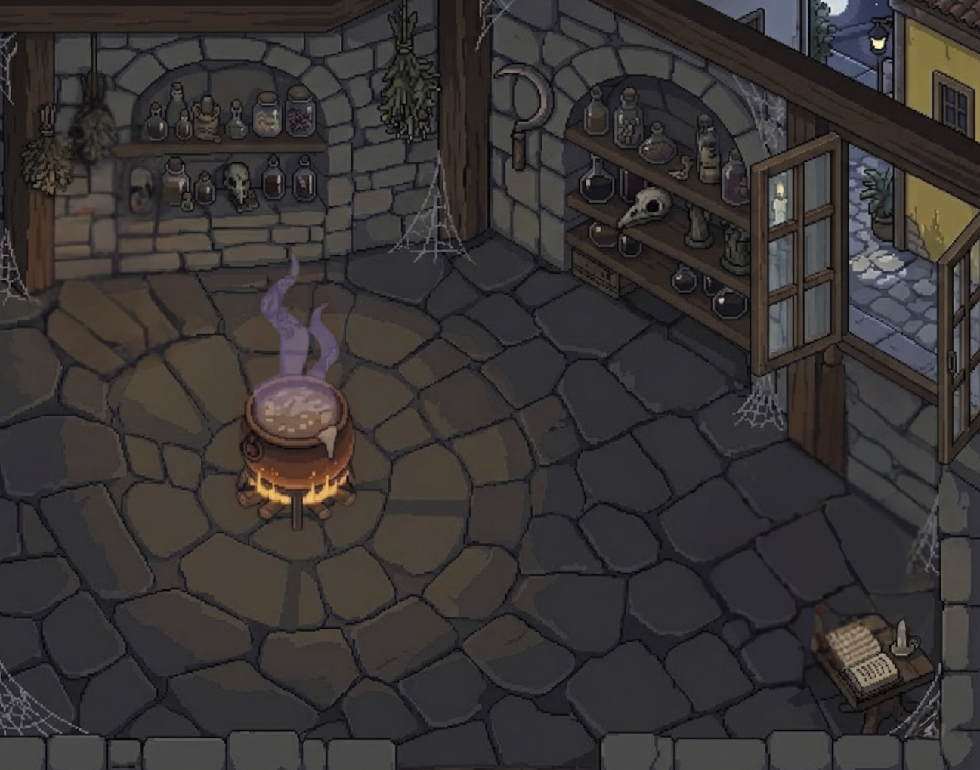
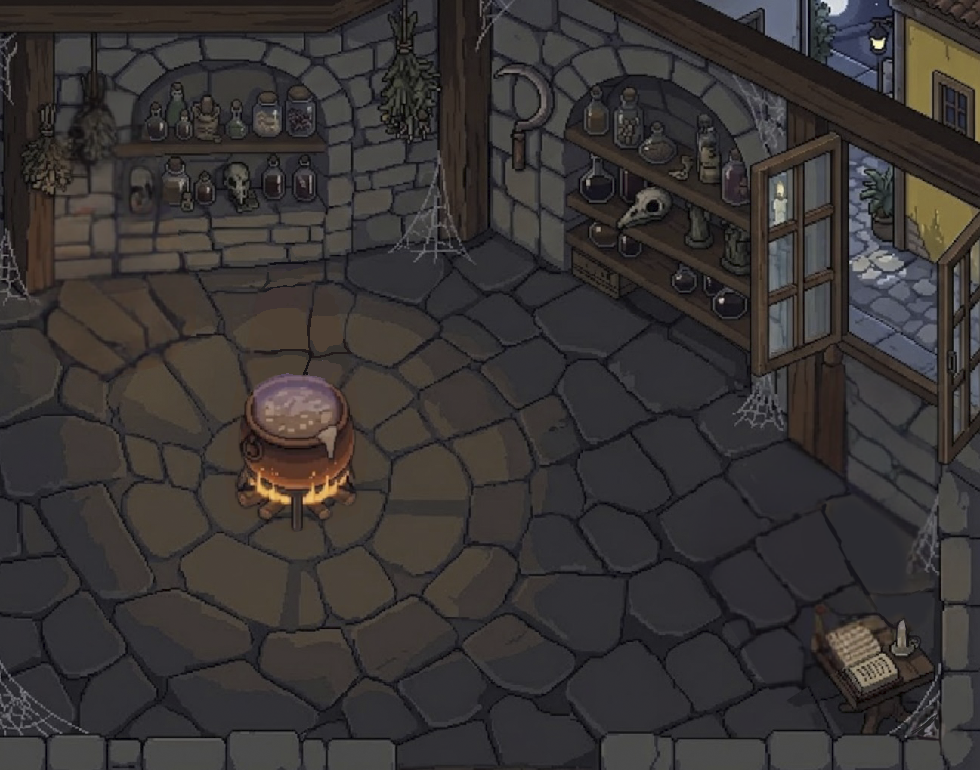
Adicionado colisões do cenário da fonte (2). Adicionado overlay do cenário da fonte e da bruxa. Adicionado sistema de itens (ainda não coletáveis, estou trabalhando nisso). Adicionado animação nos sprites dos itens (usando função seno). Adicionado todos sprites de direções do jogador.

Changed region(s): [[0.2449, 0.3429, 0.3673, 0.4987]]

diff --git a/classes/jogo.py b/classes/jogo.py
@@ -1,6 +1,8 @@
 import pygame as pg
 import sys
 
+from classes import items
+from classes.items import Item
 from classes.utils import SCREENRECT, load_image, carregar_sprite
 
 from classes.personagem import Player
@@ -21,8 +23,12 @@ class Jogo:
                                  2: load_image("cenarios/cenario2.png").convert()}
 
 
-        self.dicionario_mapas_overlays = {0: load_image("cenarios/overlays/cenario0_overlay.png").convert_alpha(), 1: pg.Surface((980, 770), pg.SRCALPHA).convert_alpha(),
-                                 2: pg.Surface((980, 770), pg.SRCALPHA).convert_alpha()}
+        self.dicionario_mapas_overlays = {0: load_image("cenarios/overlays/cenario0_overlay.png").convert_alpha(), 1: load_image("cenarios/overlays/cenario1_overlay.png").convert_alpha(),
+                                 2: load_image("cenarios/overlays/cenario2_overlay.png").convert_alpha()}
+
+
+        item_bola = Item(carregar_sprite("coletaveis/bola_item.png", 70, 70), carregar_sprite("coletaveis/bola.png", 30, 30), (6, 6), 1)
+        self.items = [item_bola]
 
         self.tela.blit(self.dicionario_mapas[0], (0, 0))
 
@@ -44,12 +50,38 @@ class Jogo:
         proximo_movimento = 0
         cooldown_movimentos = 70
         cooldown_movimentos_diagonal = cooldown_movimentos * (2 ** 0.5)
+        cooldown_animacao = {
+            0: 70, # baixo
+            1: 110, # direita
+            2: 110, # esquerda
+            3: 70 # cima
+        }
 
-        Player.images = [carregar_sprite("chaves/chaves_parado.png"),
+        Player.images[0] = [carregar_sprite("chaves/chaves_parado.png"),
                          carregar_sprite("chaves/chaves_baixo_1.png"),
                          carregar_sprite("chaves/chaves_baixo_2.png"),
                          carregar_sprite("chaves/chaves_baixo_3.png"),
-                         carregar_sprite("chaves/chaves_baixo_4.png")]
+                         carregar_sprite("chaves/chaves_baixo_4.png")] # sprites do chaves pra baixo
+
+        Player.images[1] = [carregar_sprite("chaves/chaves_direita_3.png"),
+                         carregar_sprite("chaves/chaves_direita_1.png"),
+                         carregar_sprite("chaves/chaves_direita_2.png"),
+                         carregar_sprite("chaves/chaves_direita_3.png"),
+                         carregar_sprite("chaves/chaves_direita_4.png")]
+
+        Player.images[2] = [carregar_sprite("chaves/chaves_direita_3.png", 70, 140, True),
+                         carregar_sprite("chaves/chaves_direita_1.png", 70, 140, True),
+                         carregar_sprite("chaves/chaves_direita_2.png", 70, 140, True),
+                         carregar_sprite("chaves/chaves_direita_3.png", 70, 140, True),
+                         carregar_sprite("chaves/chaves_direita_4.png", 70, 140, True)]
+
+
+        Player.images[3] = [carregar_sprite("chaves/chaves_cima_parado.png"),
+                         carregar_sprite("chaves/chaves_cima_1.png"),
+                         carregar_sprite("chaves/chaves_cima_2.png"),
+                         carregar_sprite("chaves/chaves_cima_3.png"),
+                         carregar_sprite("chaves/chaves_cima_4.png")]
+
 
         all = pg.sprite.RenderUpdates()
 
@@ -78,7 +110,7 @@ class Jogo:
 
             if player.andando:
                 if tempo_atual >= player.proximo_frame:
-                    player.proximo_frame = tempo_atual + cooldown_movimentos
+                    player.proximo_frame = tempo_atual + cooldown_animacao[player.facing]
                     if player.frame == 7:
                         player.frame = 1
                     else:
@@ -89,15 +121,32 @@ class Jogo:
                     else:
                         frame = player.frame
 
-                    player.image = player.images[frame]
+                    player.image = player.images[player.facing][frame]
 
                 player.atualizar_movimento(self.cenario_atual)
 
-            all.clear(self.tela, self.dicionario_mapas.get(self.cenario_atual))
+            self.tela.blit(self.dicionario_mapas[self.cenario_atual], (0, 0))
 
-            dirty = all.draw(self.tela)
+            carregar_com_overlay = set()
 
-            self.tela.blit(self.dicionario_mapas_overlays.get(self.cenario_atual), (0, 0))
+            for item in self.items :
+                item_deve_aparecer = (not item.coletado) and (self.cenario_atual == item.cenario)
+                item_atras_do_jogador = item_deve_aparecer and item.posicao_matriz[0] < player.pos_matriz[0] + 1
+
+                if (item_atras_do_jogador):
+                  item.update()
+                  self.tela.blit(item.image, item.rect)
+                elif (item_deve_aparecer) :
+                    carregar_com_overlay.add(item)
+
+            all.draw(self.tela) # jogador
+
+            for item in carregar_com_overlay :
+              item.update()
+              self.tela.blit(item.image, item.rect)
+
+            self.tela.blit(self.dicionario_mapas_overlays[self.cenario_atual], (0, 0))
+
             pg.display.flip()
 
             self.clock.tick(60)

diff --git a/classes/personagem.py b/classes/personagem.py
@@ -1,23 +1,35 @@
 import pygame as pg
-from typing import List
+from typing import Dict, List
 from classes.utils import SCREENRECT
 from classes.mapa import get_posicao_na_matriz, checar_colisao
 
 
+def get_facing(direcao_v, direcao_h) :
+    if (direcao_h == 1):
+        return 1
+    elif (direcao_h == -1):
+        return 2
+    elif (direcao_v == 1) :
+        return 0
+    elif (direcao_v == -1) :
+        return 3
+    return 0
 
 class Player(pg.sprite.Sprite):
 
     bounce = 24
-    images: List[pg.Surface] = []
+    images: Dict[int, List[pg.Surface]] = {
+        0: [],
+        1: [],
+        2: [],
+        3: []
+    }
 
     def __init__(self, *groups):
         pg.sprite.Sprite.__init__(self, *groups)
         self.proximocenario = -1
-        self.image = self.images[0]
-        self.rect = self.image.get_rect()
 
         self.pos_matriz = (7, 7)
-        self.rect.center = get_posicao_na_matriz(7, 7)
 
         self.prox_cenario = -1
         self.andando = False
@@ -26,9 +38,21 @@ class Player(pg.sprite.Sprite):
         self.frame = 0
 
         self.reloading = 0
-        self.facing = -1    
+        self.facing = 0 #
+        # 0 -> baixo
+        # 1 -> direita
+        # 2 -> esquerda
+        # 3 -> cima
+
+        self.image = self.images[self.facing][0]
+        self.rect = self.image.get_rect()
+        self.rect.center = get_posicao_na_matriz(7, 7)
+
+
 
     def move(self, direcao_v, direcao_h, cenario):
+        if (direcao_v == 0 and direcao_h == 0) :
+            return
         if not self.andando:
             suposta_prox_pos = (self.rect.centerx + 70 * direcao_h, self.rect.centery + 70 * direcao_v)
             proximo_rect = self.rect.copy()
@@ -38,6 +62,11 @@ class Player(pg.sprite.Sprite):
                 y, x = pos_atual[0], pos_atual[1]
                 yi, xi = y + direcao_v, x + direcao_h
 
+                nova_facing = get_facing(direcao_v, direcao_h)
+                if (nova_facing != self.facing) : # troca de direções na animação
+                    self.facing = nova_facing
+                    self.frame = 0
+                    self.image = self.images[nova_facing][0]
 
                 if direcao_h != 0 and direcao_v != 0:
                     colisao = checar_colisao(y, xi, cenario) or checar_colisao(yi, x, cenario) or checar_colisao(yi, xi, cenario)
@@ -105,4 +134,4 @@ class Player(pg.sprite.Sprite):
                 return
 
             self.andando = False
-            self.image = self.images[0]
+            self.image = self.images[self.facing][0]

diff --git a/classes/mapa.py b/classes/mapa.py
@@ -79,17 +79,22 @@ def iniciar_cenarios() :
     #Inicia as colisoes do cenario 2
     cenario_2 = {
         (1, "*"),
-        (2, 1),(2, 2),(2, 3),(2, 4),(2, 5),(2, 6),(2, 7),(2, 8),(2, 10),(2, 11),(2, 12),
-        (3, 1),(3, 2),(3, 3),(3, 10),(3, 11),(3, 12),
-        (4, 1), (4, 2),(4, 3),(4, 8),(4, 9),(4, 11),(4, 12),
-        (5, 1),(5, 2),(5, 3),
-        (6, 1),(6, 2),(6, 3),
-        (7, 1),(7, 2),(7, 3),(7, 5),(7, 6),(7, 8),
-        (8, 1),(8, 6),(8, 7),(8, 8),
-        (9, 1),
-        (10, 11),(10, 12),
-        ("*",0),
-        ("*",13)
+        (2, 1), (2, 2), (2, 3), (2, 4), (2, 5), (2, 6), (2, 7), (2, 8),
+        (3, 1), (3, 2), (3, 3), (3, 7), (3, 8), (3, 10),
+        (4, 7), (4, 8), (4, 9), (4, 11), (4, 12),
+        (5, 11),
+        (6, 12),
+        (8, 12),
+        (9, 12),
+        (10, 12),
+        (10, 11),
+        (9, 1), (8, 1), (7, 2), (6, 3), (5, 3), (4, 3),
+        (6, 6), (6, 7), (6, 8),
+        (7, 6), (7, 7), (7, 8),
+        (8, 6), (8, 7), (8, 8),
+
+        ("*", 0),
+        ("*", 13)
     }
     
     matriz_cenario_0 = matrizlogica("Cenário 0", 11, 14)

diff --git a/classes/items.py b/classes/items.py
@@ -1,0 +1,23 @@
+import math
+
+import pygame as pg
+
+from classes.mapa import get_posicao_na_matriz
+
+
+class Item(pg.sprite.Sprite):
+    def __init__(self, imagem, icone, posicao, cenario):
+        pg.sprite.Sprite.__init__(self)
+        self.coletado = False
+        self.cenario = cenario
+        self.icone = icone
+        self.image = imagem
+        self.rect = self.image.get_rect()
+        self.posicao_matriz = posicao
+        self.rect.center = get_posicao_na_matriz(posicao[1], posicao[0])
+        self.y_inicial = self.rect.y
+
+    def update(self):
+        if (self.coletado) :
+            return
+        self.rect.y = self.y_inicial + math.sin(pg.time.get_ticks() / 250) * 3 # pra ficar balançando pra cima e pra baixo

diff --git a/classes/utils.py b/classes/utils.py
@@ -14,6 +14,8 @@ def load_image(file):
         raise SystemExit(f'Erro ao carregar "{file}" {pg.get_error()}')
     return surface.convert_alpha()
 
-def carregar_sprite(nome, largura=70, altura=140):
+def carregar_sprite(nome, largura=70, altura=140, flip= False):
     img = pg.transform.scale(load_image(nome), (largura, altura))
+    if (flip) :
+        img = pg.transform.flip(img, True, False)
     return img